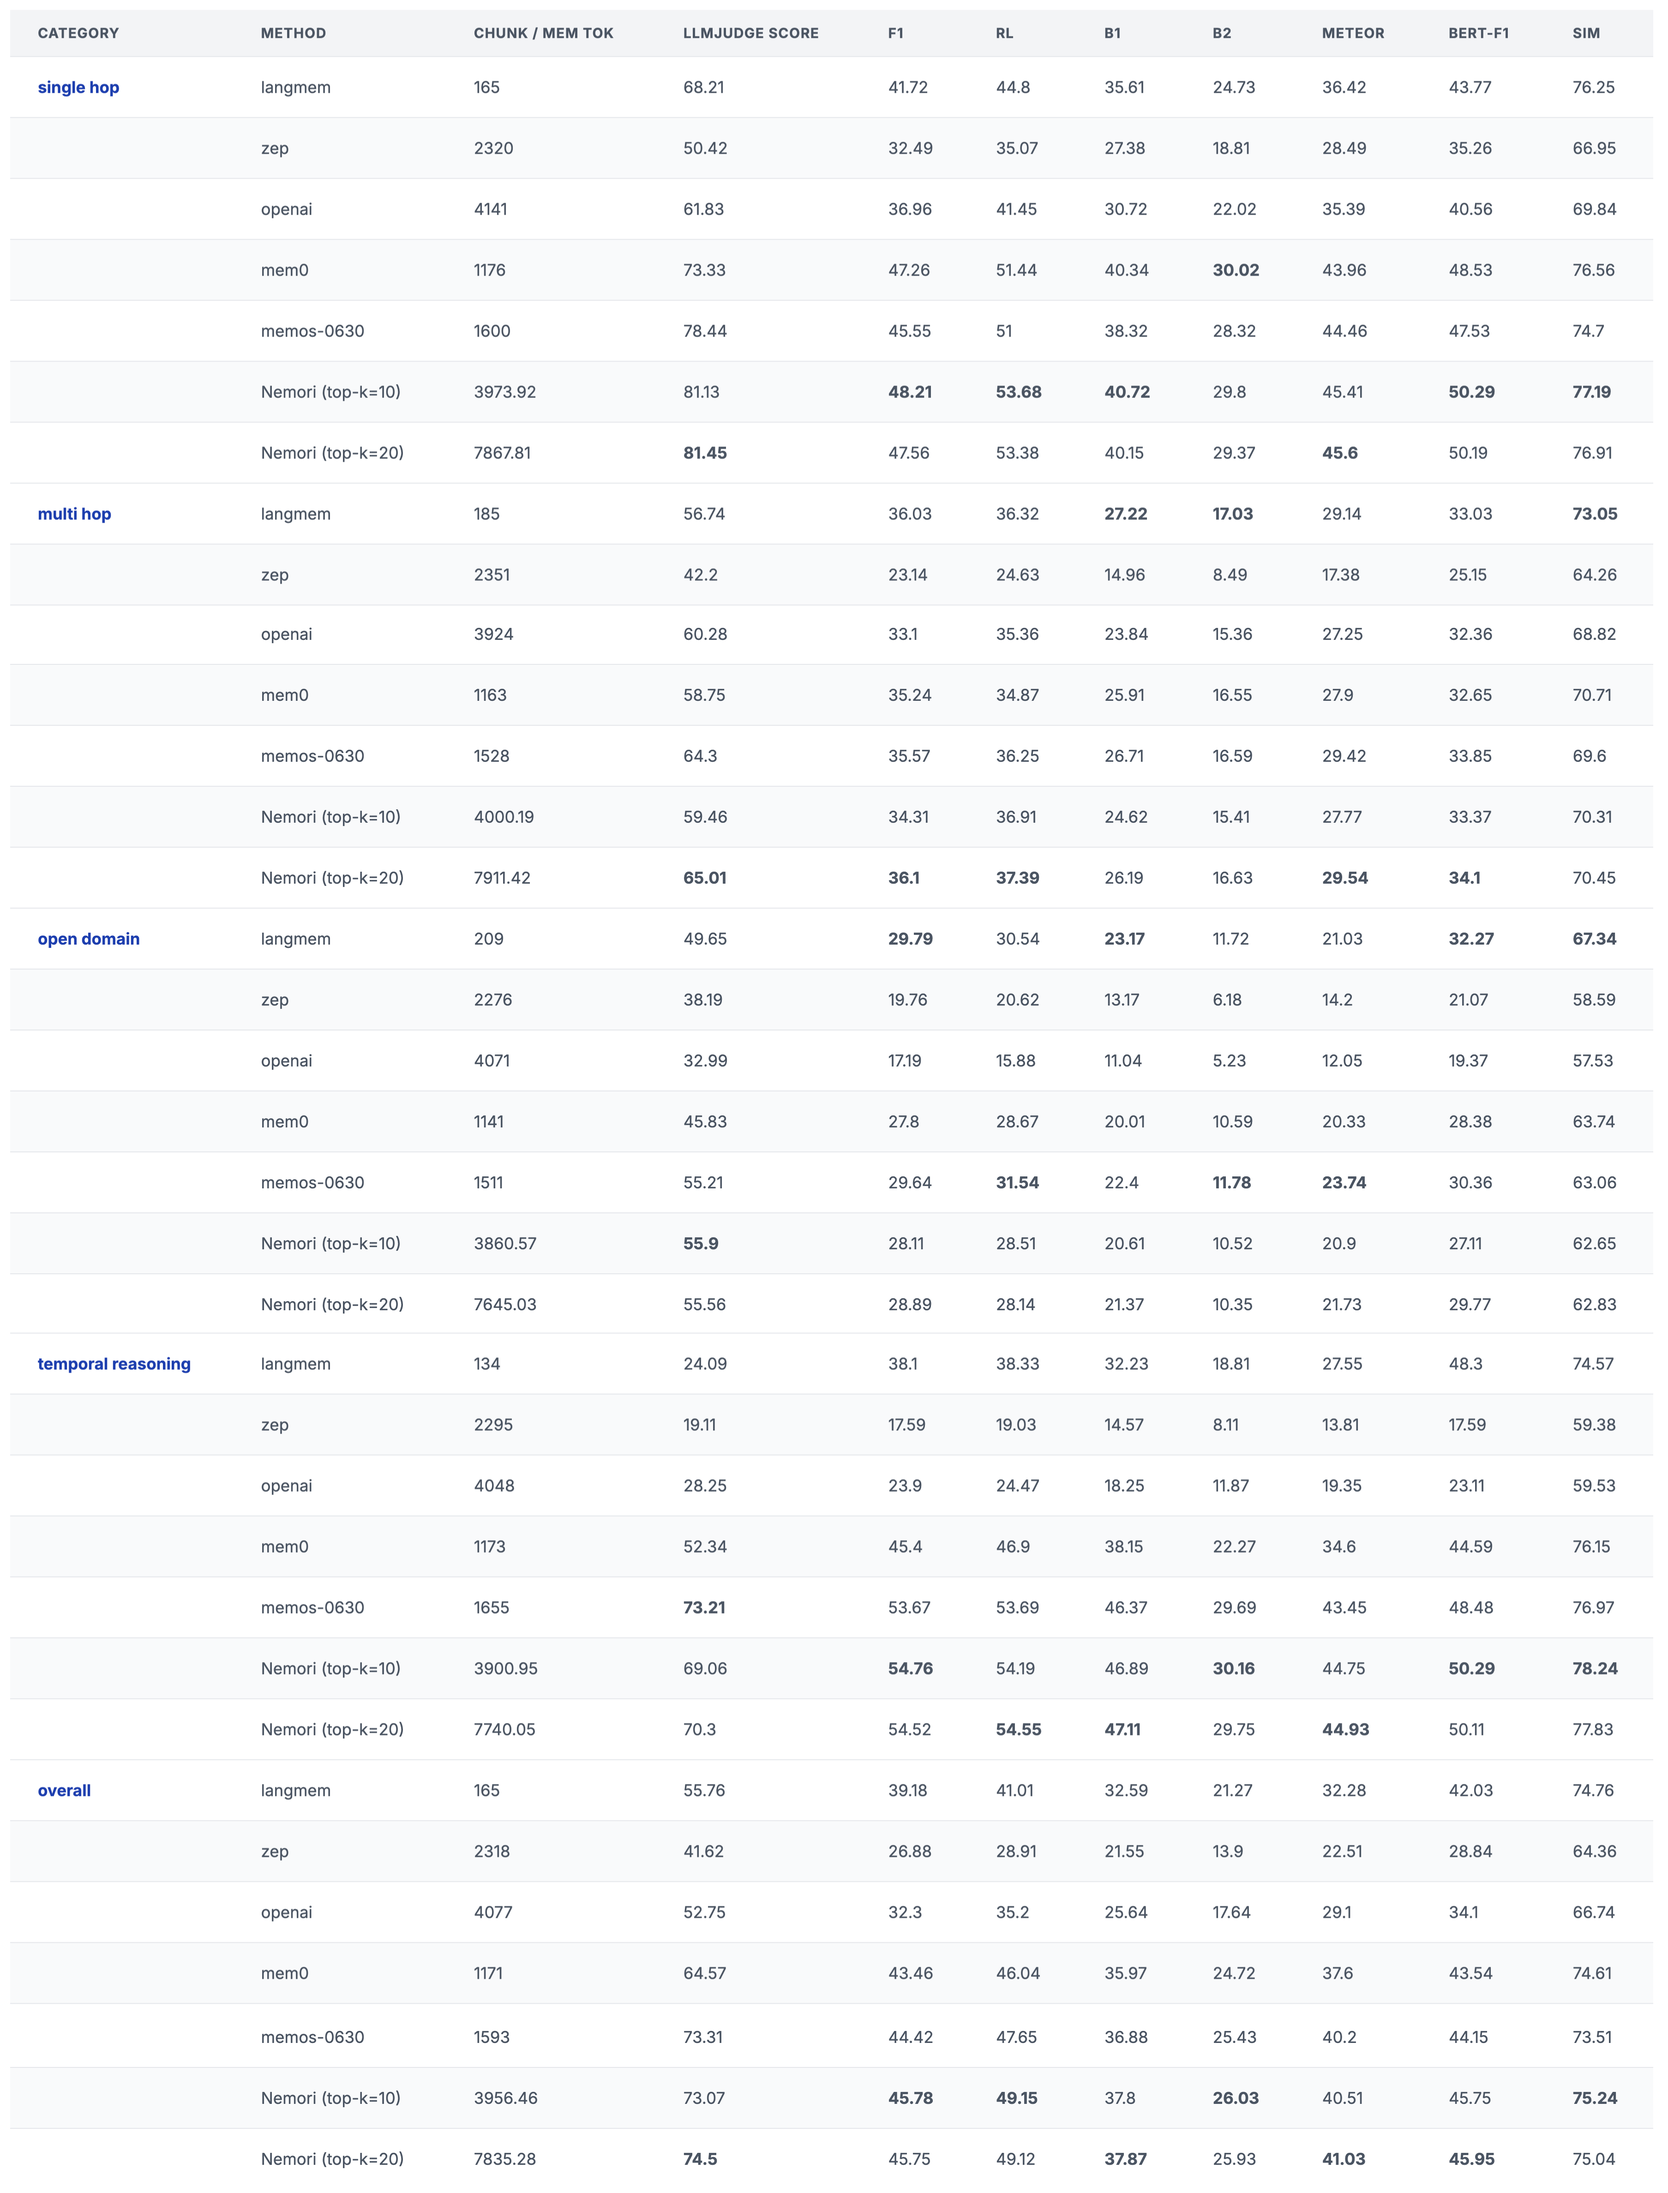
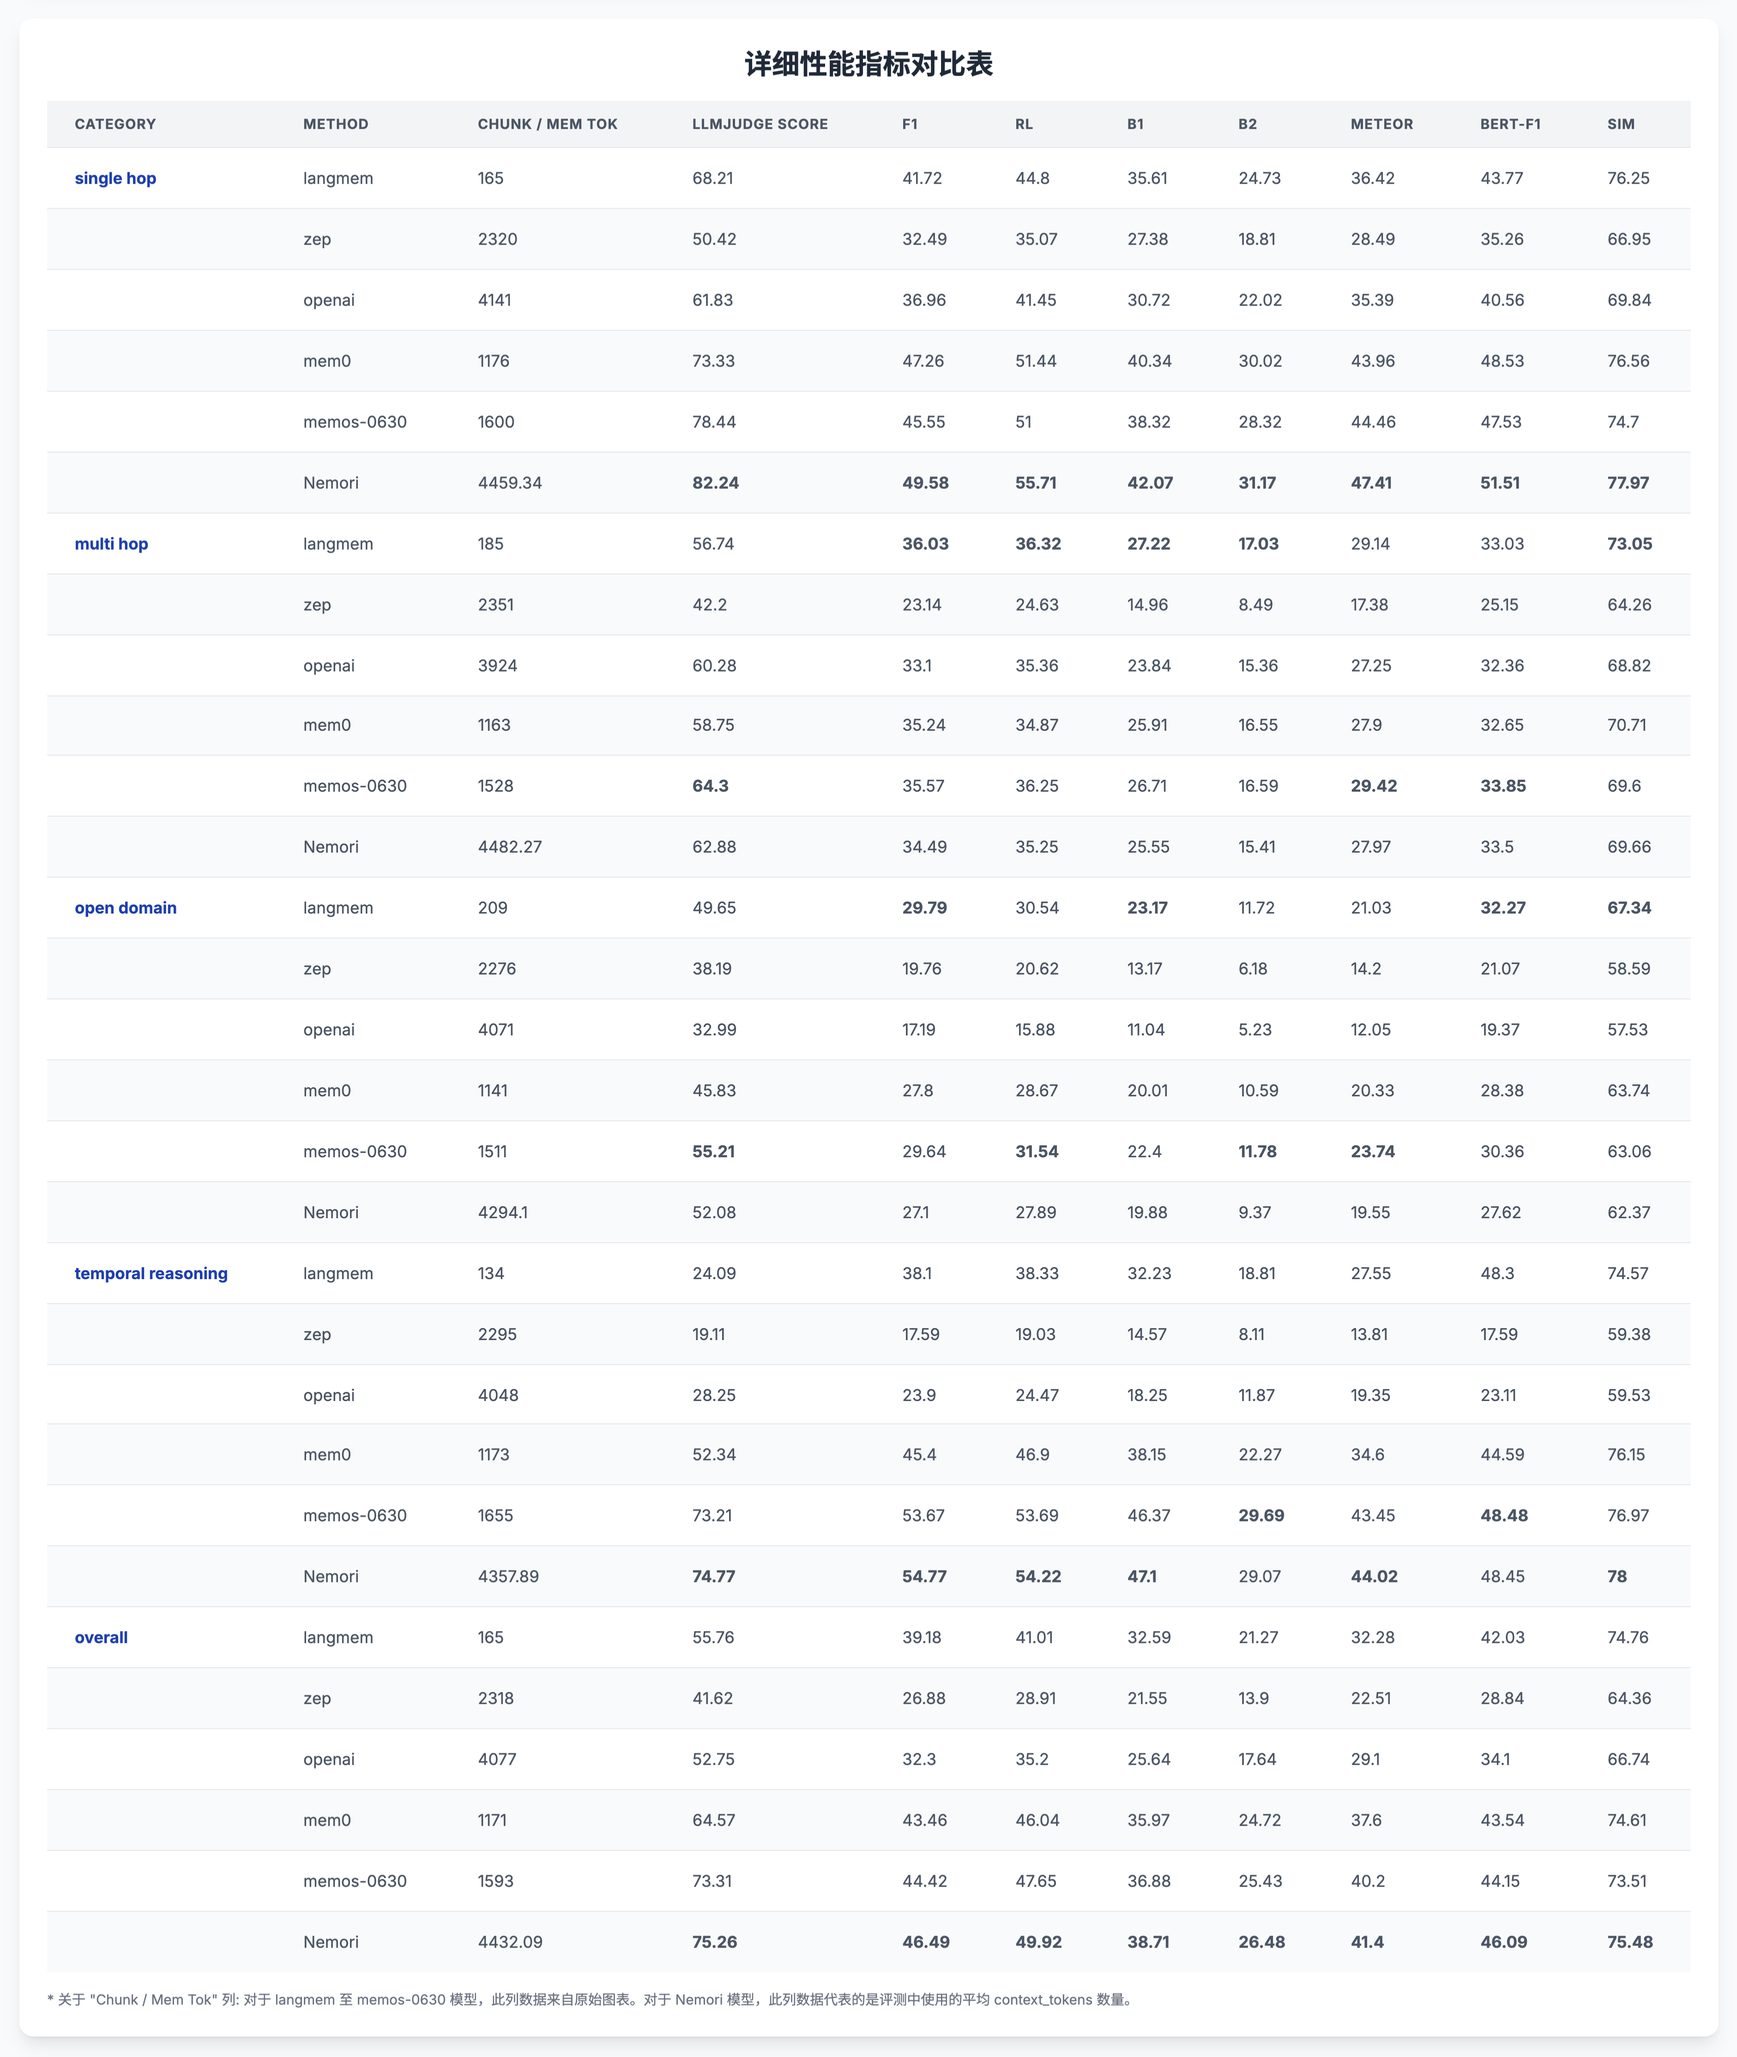
fix: Update README to reflect retrieval of top 20 results and update image files
- Modified the README to indicate retrieval of top 20 results instead of top 10.
- Updated binary image files for detail scores and scores.

diff --git a/README.md b/README.md
@@ -14,7 +14,7 @@ We established a minimal BM25 index for each user's episodic memories. This migh
 
 2. Retrieval
 
-With the preprocessing complete, the subsequent process is relatively straightforward. We retrieve the top 10 results (specifically, top 10 for each of the 2 speakers), have GPT-4o-mini generate responses, and follow an evaluation approach nearly identical to other projects.
+With the preprocessing complete, the subsequent process is relatively straightforward. We retrieve the top 20 results, have GPT-4o-mini generate responses, and follow an evaluation approach nearly identical to other projects.
 The Nemori open-source release will be completed soon (I've already included [intermediate artifacts](https://github.com/nemori-ai/MemOS/tree/nemori-eval/evaluation/nemori_results) in the source code for those interested), allowing everyone to reproduce our complete results.
 
 <a href="scores.png">
